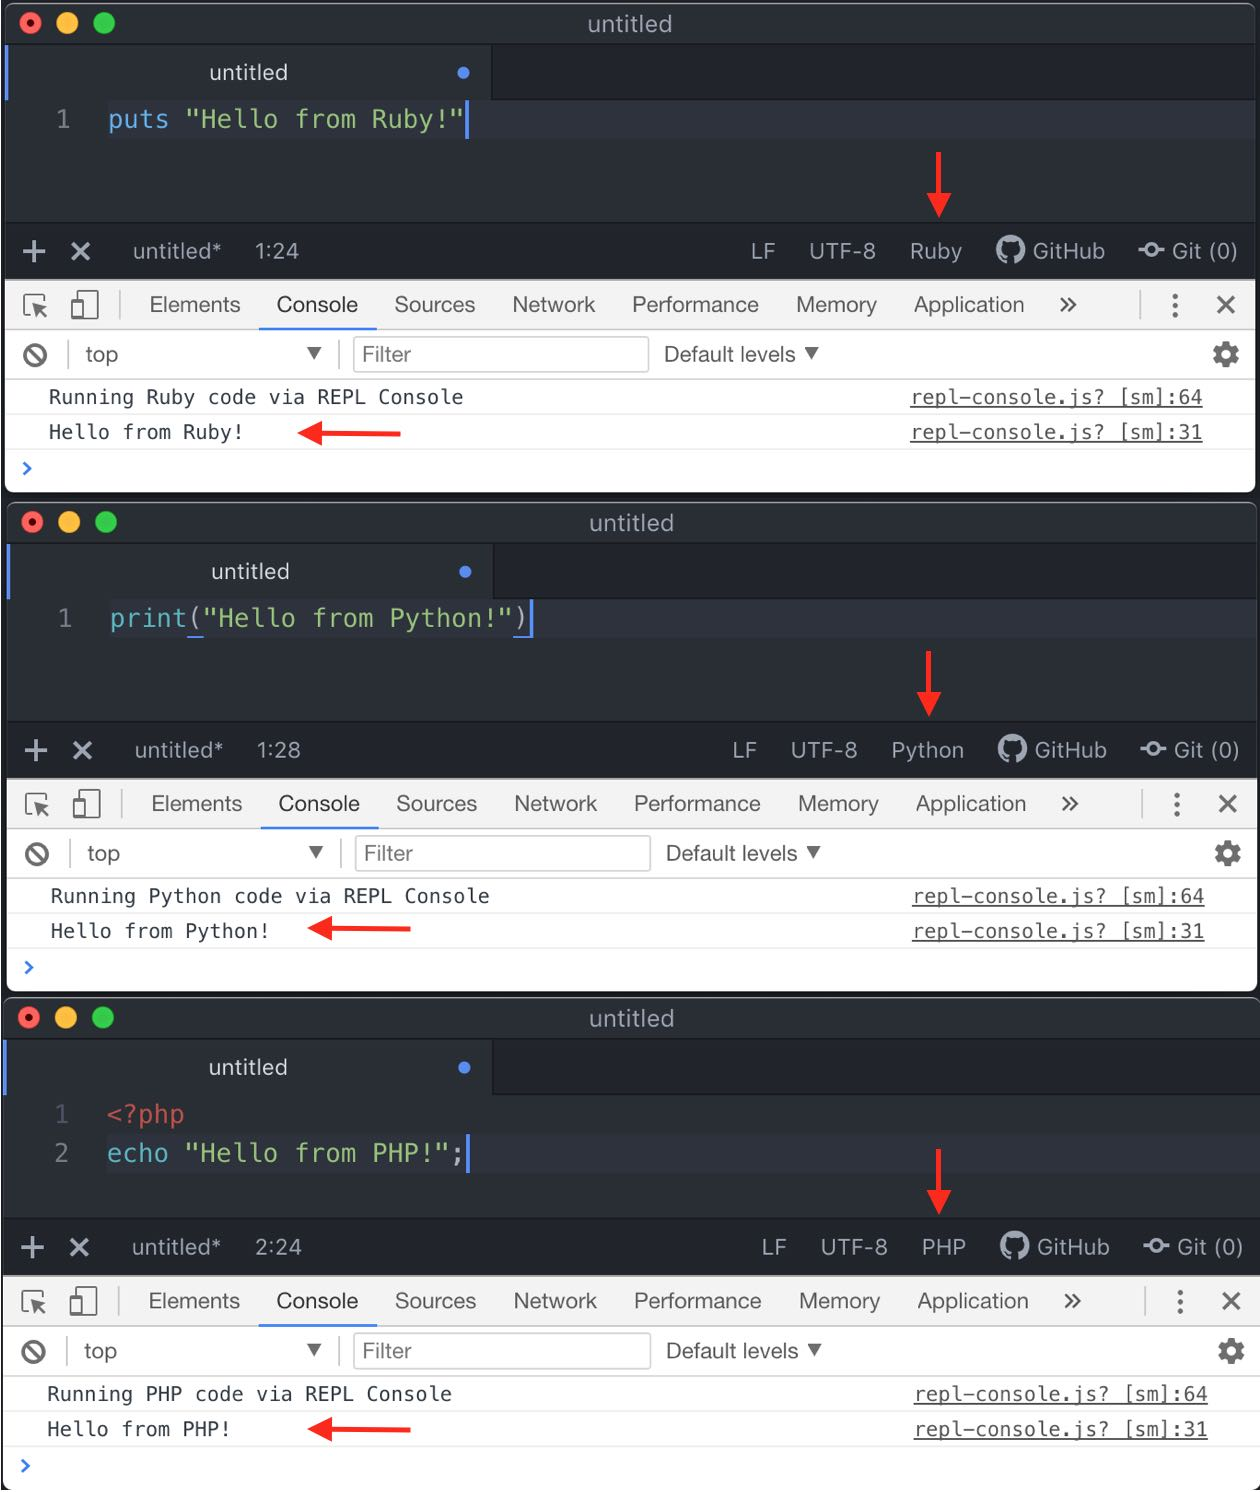
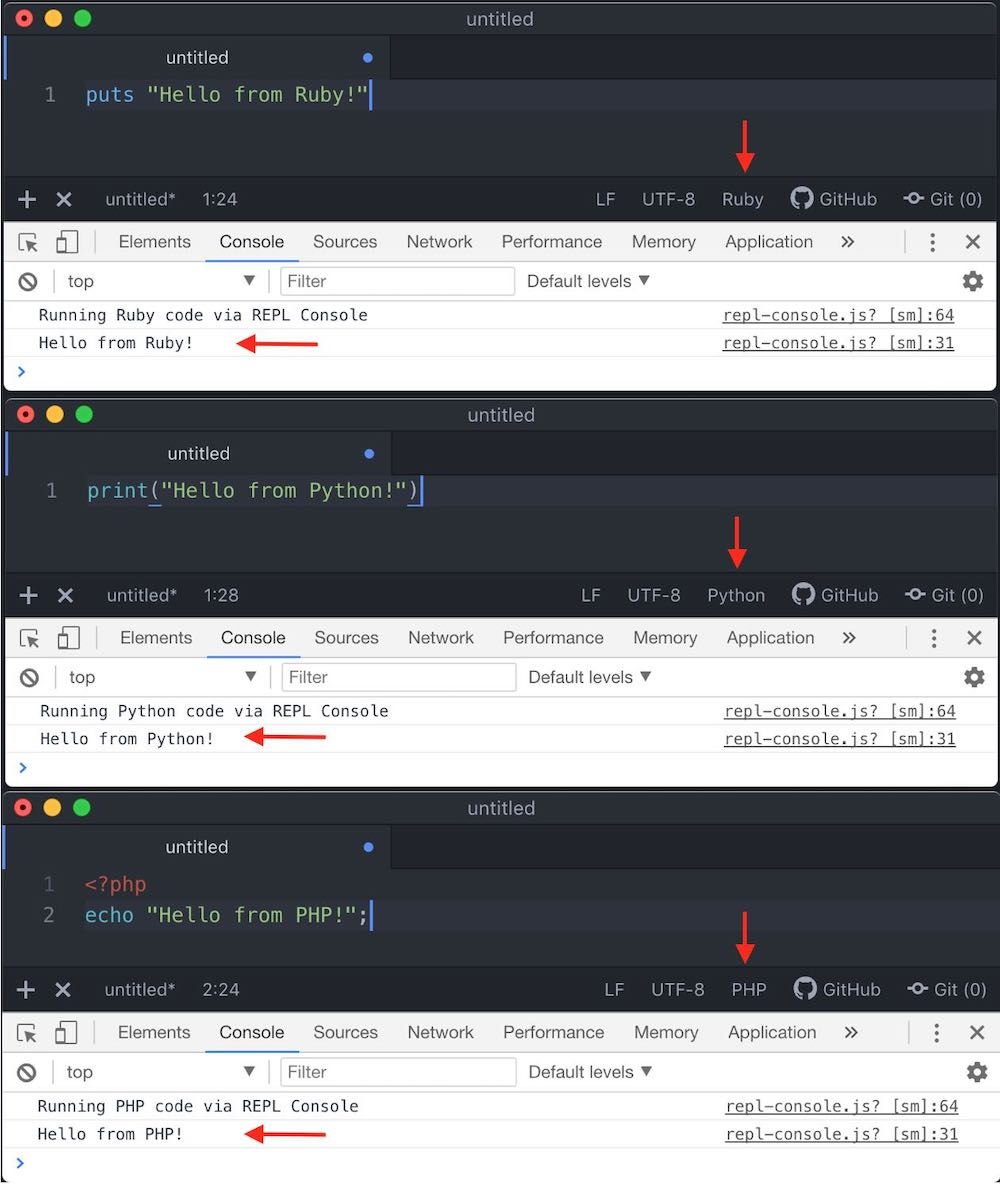
Resized screenshot

diff --git a/README.md b/README.md
@@ -6,7 +6,7 @@ Supported Languages: Ruby, JavaScript, Python, PHP, Go, Shell Script and JSON
 
 Runtime must be available in system PATH for code to execute in that particular language. JavaScript (and JSON) is the only exception as it runs natively in ATOM.
 
-![Screenshot](screenshot.jpg)
+<img src="screenshot.jpg" alt="Screenshot" style="width:100%;max-width:700px;" />
 
 ## Steps to run code
 
